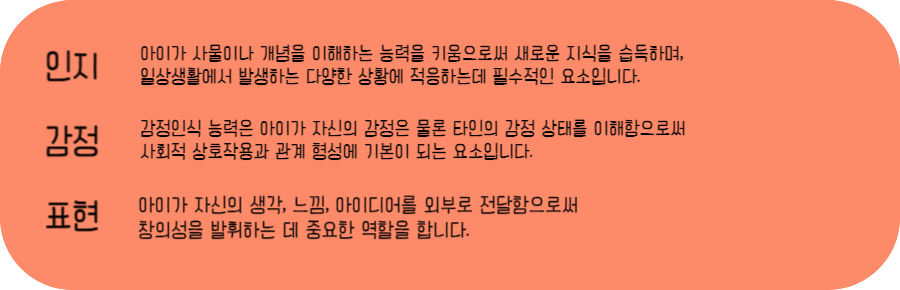
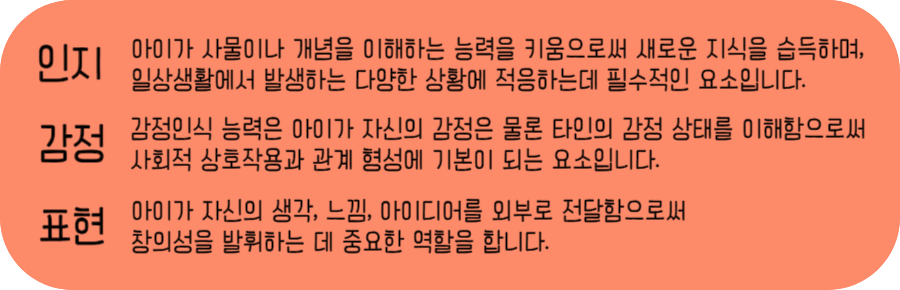
:art: Feat: 리포트 분석페이지 디자인 수정

Changed region(s): [[0.0311, 0.1241, 0.9644, 0.3414], [0.0311, 0.4034, 0.9644, 0.5897], [0.0311, 0.6517, 0.7778, 0.9]]

diff --git a/frontend/toby/src/pages/Report.tsx b/frontend/toby/src/pages/Report.tsx
@@ -153,6 +153,14 @@ const ExplainImage = styled.img`
   display: flex;
   position: absolute;
 `;
+const Taehun = styled.h1`
+  line-height: 60%;
+  font-size: 70px;
+`;
+const Taehun2 = styled.h2`
+  line-height: 60%;
+  font-size: 40px;
+`;
 const Report = () => {
   const navigate = useNavigate();
   const [contentText, setContentText] = useState<React.ReactNode>("");
@@ -171,10 +179,10 @@ const Report = () => {
       case "analysis":
         setContentText(
           <>
-            <h1 style={{ fontSize: "60px" }}>분석</h1>
-            <h2 style={{ fontSize: "35px" }}>
+            <Taehun>분석</Taehun>
+            <Taehun2>
               우리 아이가 풀었던 문제에 대한 통계 자료를 볼 수 있어요!
-            </h2>
+            </Taehun2>
           </>
         );
         setShowBoxes(true);
@@ -182,7 +190,11 @@ const Report = () => {
         break;
       case "history":
         setContentText(
-          "히스토리: 우리 아이가 풀었던 문제를 확인 할 수 있어요! 채점이 잘못되었다면 부모님이 다시 채점 해주세요!"
+          <>
+            <Taehun> 히스토리</Taehun>
+            <Taehun2>우리 아이가 풀었던 문제를 확인할 수 있어요!</Taehun2>
+            <Taehun2>채점이 잘못되었다면 부모님이 다시 채점해주세요!</Taehun2>
+          </>
         );
         setShowBoxes(false);
         setShowHistory(true);
